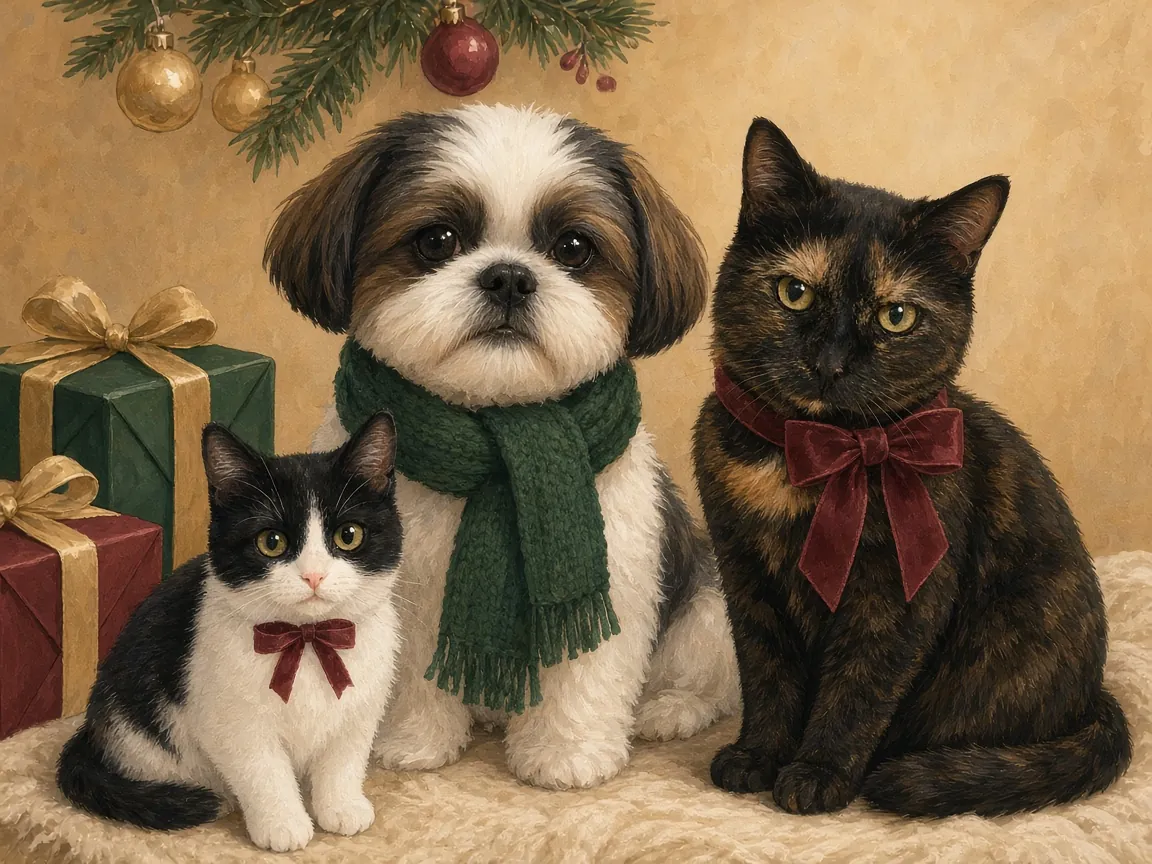
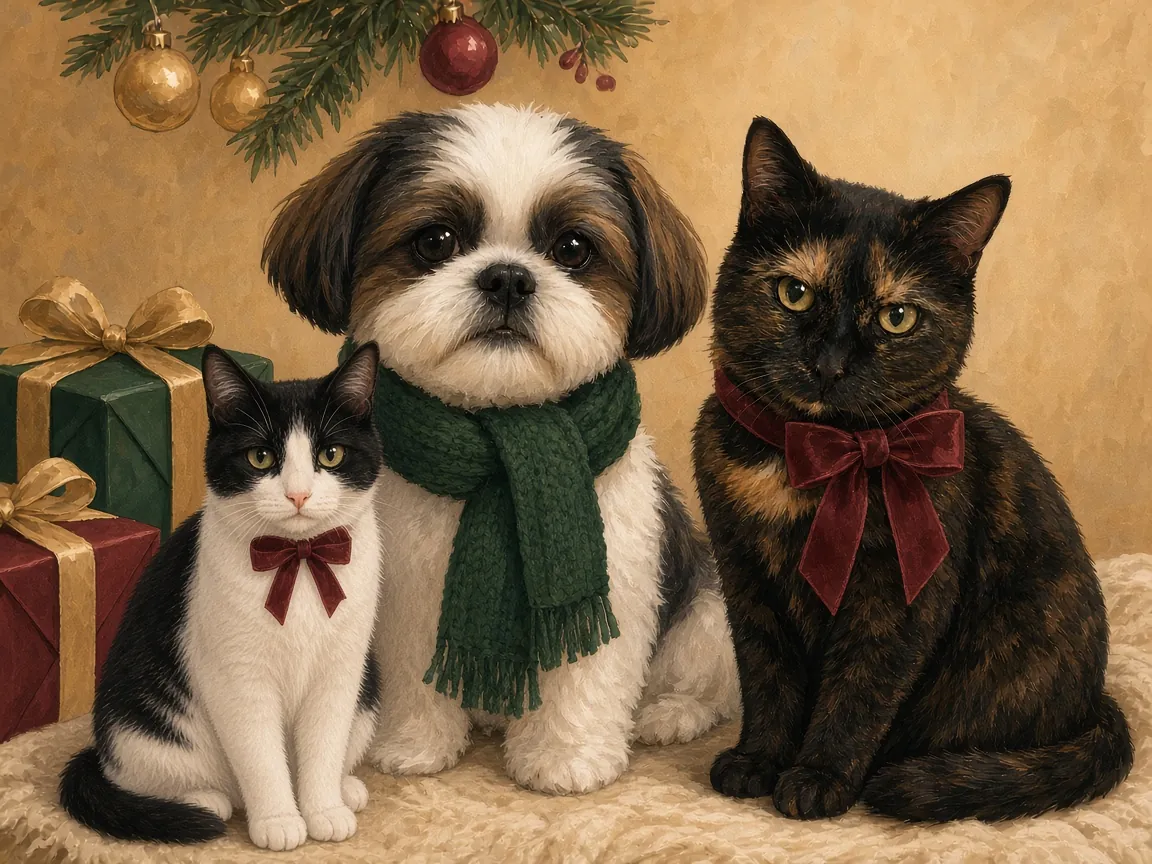
Gifts for pets: adult Lilou in hero portrait; new Premium treats scene (Future devours the treats, Lili & Lilou disapprove); new g-intro text; image cache v=20261126b; new OG

diff --git a/site/products/gifts/index.html b/site/products/gifts/index.html
@@ -218,7 +218,7 @@ if(document.readyState==='loading')document.addEventListener('DOMContentLoaded',
 <g class="d-garland"><path fill="none" stroke="#1a332c" stroke-width="7.2" stroke-linecap="round" d="M-8 3 Q60.0 29.0 128 3 M128 3 Q195.0 29.0 262 3 M262 3 Q314.0 29.0 366 3"/><path fill="none" stroke="#24443a" stroke-width="1.3" stroke-linecap="round" d="M-8.0 3.0 l6.8 -4.3 M-8.0 3.0 l-0.6 6.1 M-4.3 4.4 l3.5 -5.9 M-4.3 4.4 l3.0 5.3 M3.0 6.9 l6.3 -5.4 M3.0 6.9 l-0.5 5.8 M6.7 8.0 l6.7 -2.4 M10.4 9.1 l4.6 -3.6 M10.4 9.1 l4.2 7.0 M17.7 11.0 l3.9 -4.8 M21.4 11.8 l4.2 -3.2 M21.4 11.8 l1.8 8.5 M39.8 14.9 l2.8 4.6 M43.5 15.2 l2.5 -5.4 M47.1 15.5 l3.3 -5.8 M58.2 16.0 l5.4 -3.5 M61.8 16.0 l2.5 5.3 M72.9 15.5 l3.3 -6.2 M76.5 15.2 l3.8 -6.8 M83.9 14.4 l1.8 -7.7 M83.9 14.4 l5.3 4.4 M87.6 13.9 l4.1 -3.8 M91.2 13.3 l3.8 -6.3 M109.6 9.1 l5.4 6.8 M117.0 6.9 l1.3 -6.8 M117.0 6.9 l3.4 5.1 M124.3 4.4 l4.6 5.4 M128.0 3.0 l0.6 5.6 M131.6 4.4 l-0.9 6.9 M138.9 6.9 l4.6 -4.3 M142.5 8.0 l5.3 -4.8 M142.5 8.0 l5.1 6.4 M146.1 9.1 l4.0 -6.7 M146.1 9.1 l-0.3 5.4 M149.7 10.1 l7.6 -4.1 M149.7 10.1 l-0.2 6.8 M153.4 11.0 l3.8 -4.3 M153.4 11.0 l4.7 4.5 M167.8 13.9 l2.8 4.9 M171.5 14.4 l3.2 -6.9 M175.1 14.9 l3.0 -5.6 M185.9 15.8 l3.4 6.4 M189.6 15.9 l2.5 -4.7 M193.2 16.0 l3.8 4.5 M196.8 16.0 l4.9 3.8 M200.4 15.9 l2.6 -4.6 M200.4 15.9 l3.5 5.3 M204.1 15.8 l3.5 -6.0 M204.1 15.8 l4.4 4.5 M207.7 15.5 l1.3 -5.8 M211.3 15.2 l1.6 -6.3 M211.3 15.2 l2.5 5.2 M222.2 13.9 l4.6 -6.1 M225.8 13.3 l4.1 -7.2 M225.8 13.3 l5.4 3.9 M229.4 12.6 l2.8 -4.8 M229.4 12.6 l3.2 5.1 M236.6 11.0 l3.8 -7.9 M240.3 10.1 l0.4 -5.7 M240.3 10.1 l5.6 5.8 M243.9 9.1 l2.6 -5.5 M243.9 9.1 l4.1 7.3 M247.5 8.0 l2.0 -7.7 M247.5 8.0 l4.5 6.6 M251.1 6.9 l3.4 -6.7 M254.8 5.7 l0.9 -6.2 M254.8 5.7 l5.1 3.5 M258.4 4.4 l1.8 -5.0 M262.0 3.0 l6.3 1.6 M262.0 3.0 l4.6 -3.0 M265.7 4.8 l4.0 -4.9 M265.7 4.8 l1.5 6.6 M269.4 6.4 l6.9 -2.5 M269.4 6.4 l1.7 7.5 M273.1 8.0 l1.2 6.8 M276.9 9.4 l-0.2 6.5 M280.6 10.6 l6.2 -5.8 M280.6 10.6 l1.5 5.5 M284.3 11.8 l3.5 -4.6 M288.0 12.8 l5.3 -4.8 M288.0 12.8 l1.3 5.1 M295.4 14.3 l5.9 -4.3 M295.4 14.3 l1.6 6.3 M299.1 14.9 l3.8 -5.0 M302.9 15.4 l5.3 -3.2 M306.6 15.7 l4.2 -7.0 M310.3 15.9 l2.5 -6.1 M310.3 15.9 l4.0 6.8 M314.0 16.0 l2.7 -6.0 M317.7 15.9 l5.4 6.7 M321.4 15.7 l3.3 -5.0 M325.1 15.4 l3.4 -6.2 M328.9 14.9 l2.1 -5.2 M332.6 14.3 l0.5 -6.9 M332.6 14.3 l4.8 5.8 M336.3 13.6 l1.8 -7.9 M340.0 12.8 l4.2 6.9 M343.7 11.8 l6.3 4.4 M347.4 10.6 l4.1 -5.5 M347.4 10.6 l5.7 3.2 M351.1 9.4 l4.0 -7.6 M351.1 9.4 l5.1 5.8 M354.9 8.0 l2.7 -5.9 M358.6 6.4 l1.3 -5.4 M362.3 4.8 l2.2 -5.6 M366.0 3.0 l-0.7 -6.5 M366.0 3.0 l7.9 1.7"/><path fill="none" stroke="#3a5e51" stroke-width="1.3" stroke-linecap="round" d="M-0.6 5.7 l6.1 -5.7 M-0.6 5.7 l1.7 5.4 M6.7 8.0 l1.4 5.7 M14.1 10.1 l1.1 6.2 M17.7 11.0 l1.2 6.5 M25.1 12.6 l1.2 6.0 M36.1 14.4 l1.9 5.0 M43.5 15.2 l1.6 5.4 M47.1 15.5 l2.4 7.9 M50.8 15.8 l3.7 4.4 M54.5 15.9 l2.6 -5.2 M69.2 15.8 l5.1 -6.0 M69.2 15.8 l4.4 7.1 M76.5 15.2 l2.8 6.5 M80.2 14.9 l4.2 3.9 M102.3 11.0 l1.4 -6.4 M105.9 10.1 l3.9 4.2 M109.6 9.1 l3.9 -5.8 M113.3 8.0 l1.1 -8.7 M120.6 5.7 l4.7 2.5 M131.6 4.4 l6.6 -1.5 M157.0 11.8 l4.6 -3.2 M171.5 14.4 l1.7 6.6 M175.1 14.9 l4.1 7.2 M178.7 15.2 l2.5 -5.1 M193.2 16.0 l6.4 -5.4 M196.8 16.0 l7.0 -4.5 M214.9 14.9 l2.6 -4.7 M214.9 14.9 l4.4 5.2 M218.5 14.4 l2.3 5.6 M222.2 13.9 l3.1 4.4 M233.0 11.8 l2.2 -6.3 M251.1 6.9 l3.9 4.8 M262.0 3.0 l0.2 -6.0 M262.0 3.0 l1.9 7.7 M273.1 8.0 l3.3 -6.5 M291.7 13.6 l2.6 6.7 M299.1 14.9 l4.0 6.2 M321.4 15.7 l4.0 6.3 M340.0 12.8 l3.1 -4.6 M354.9 8.0 l4.5 4.4 M358.6 6.4 l7.7 3.0 M362.3 4.8 l6.0 3.9"/><path fill="none" stroke="#1a332c" stroke-width="1.3" stroke-linecap="round" d="M14.1 10.1 l4.3 -3.4 M25.1 12.6 l6.5 -5.6 M28.8 13.3 l7.2 -3.6 M28.8 13.3 l2.4 5.0 M32.4 13.9 l3.6 -4.5 M32.4 13.9 l1.2 6.2 M36.1 14.4 l6.2 -4.1 M39.8 14.9 l5.7 -3.0 M50.8 15.8 l3.0 -5.6 M54.5 15.9 l3.5 6.0 M58.2 16.0 l3.8 6.7 M61.8 16.0 l2.4 -8.4 M65.5 15.9 l4.2 -4.8 M65.5 15.9 l3.5 6.6 M72.9 15.5 l6.5 5.1 M80.2 14.9 l4.8 -6.8 M87.6 13.9 l4.5 5.0 M91.2 13.3 l4.2 4.9 M94.9 12.6 l2.9 -7.1 M94.9 12.6 l3.1 5.5 M98.6 11.8 l2.0 -7.0 M98.6 11.8 l5.1 6.3 M102.3 11.0 l2.5 7.0 M105.9 10.1 l1.6 -6.4 M113.3 8.0 l8.2 2.6 M120.6 5.7 l1.4 -5.0 M124.3 4.4 l1.8 -8.6 M128.0 3.0 l1.9 -5.9 M128.0 3.0 l3.7 3.8 M128.0 3.0 l4.1 -3.4 M135.2 5.7 l5.1 -6.1 M135.2 5.7 l-0.1 6.8 M138.9 6.9 l1.9 6.7 M157.0 11.8 l2.3 6.3 M160.6 12.6 l4.1 -5.0 M160.6 12.6 l2.2 5.9 M164.2 13.3 l4.0 -6.2 M164.2 13.3 l5.8 5.8 M167.8 13.9 l3.2 -5.1 M178.7 15.2 l3.6 6.5 M182.3 15.5 l3.2 -7.9 M182.3 15.5 l3.2 7.1 M185.9 15.8 l4.5 -5.1 M189.6 15.9 l5.8 6.4 M207.7 15.5 l3.9 6.3 M218.5 14.4 l1.4 -5.2 M233.0 11.8 l4.4 2.9 M236.6 11.0 l6.9 4.1 M258.4 4.4 l6.4 1.2 M276.9 9.4 l5.7 -4.4 M284.3 11.8 l2.4 8.2 M291.7 13.6 l2.9 -7.1 M302.9 15.4 l4.3 6.3 M306.6 15.7 l3.8 4.2 M314.0 16.0 l1.6 7.5 M317.7 15.9 l3.0 -5.5 M325.1 15.4 l5.9 4.5 M328.9 14.9 l4.2 3.6 M336.3 13.6 l4.7 3.1 M343.7 11.8 l3.1 -5.0"/><g><g class="d-tw"><circle cx="57.7" cy="20.4" r="11.2" fill="url(#d-glow)"/><circle cx="57.7" cy="20.4" r="2.8" fill="#fbe7b0" stroke="#a8823a" stroke-width=".6"/></g><g class="d-tw"><circle cx="196.4" cy="20.4" r="11.2" fill="url(#d-glow)"/><circle cx="196.4" cy="20.4" r="2.8" fill="#fbe7b0" stroke="#a8823a" stroke-width=".6"/></g><g class="d-tw"><circle cx="318.0" cy="20.3" r="11.2" fill="url(#d-glow)"/><circle cx="318.0" cy="20.3" r="2.8" fill="#fbe7b0" stroke="#a8823a" stroke-width=".6"/></g></g><use href="#d-holly" x="-31.4" y="-8.6" width="46.8" height="31.2"/><use href="#d-holly" x="104.6" y="-8.6" width="46.8" height="31.2"/><use href="#d-holly" x="238.6" y="-8.6" width="46.8" height="31.2"/><use href="#d-holly" x="342.6" y="-8.6" width="46.8" height="31.2"/></g>
 </svg>
 <div class="g-hero-visual">
-<figure class="g-portrait"><img src="../../img/gifts/gifts-hero-trio-960.webp" srcset="../../img/gifts/gifts-hero-trio-640.webp 640w, ../../img/gifts/gifts-hero-trio-960.webp 960w, ../../img/gifts/gifts-hero-trio-1152.webp 1152w" sizes="(max-width:720px) 92vw, 500px" width="960" height="720" alt="Painted Christmas portrait of Marc&rsquo;s pets: Future the shih tzu in a green scarf, Lili the tortoiseshell cat with a cranberry bow, and little Lilou the black-and-white cat, beside wrapped gifts." fetchpriority="high" decoding="async"></figure>
+<figure class="g-portrait"><img src="../../img/gifts/gifts-hero-trio-960.webp?v=20261126b" srcset="../../img/gifts/gifts-hero-trio-640.webp?v=20261126b 640w, ../../img/gifts/gifts-hero-trio-960.webp?v=20261126b 960w, ../../img/gifts/gifts-hero-trio-1152.webp?v=20261126b 1152w" sizes="(max-width:720px) 92vw, 500px" width="960" height="720" alt="Painted Christmas portrait of Marc&rsquo;s pets: Future the shih tzu in a green scarf, Lili the tortoiseshell cat with a cranberry bow, and little Lilou the black-and-white cat, beside wrapped gifts." fetchpriority="high" decoding="async"></figure>
 <svg class="g-deco g-deco-l" viewBox="0 0 40 220" aria-hidden="true"><g class="d-bob"><path fill="none" stroke="#d9b765" stroke-width=".9" d="M20 0 V135.38"/>
 <rect fill="#d9b765" stroke="#a8823a" stroke-width=".8" x="16.7" y="134.4" width="6.6" height="4.6" rx="1"/>
 <circle fill="url(#d-b-gold)" stroke="#0b1719" stroke-width="1" cx="20" cy="150" r="11"/>
@@ -242,7 +242,7 @@ if(document.readyState==='loading')document.addEventListener('DOMContentLoaded',
 <p class="g-eyebrow">Christmas shelf &middot; 2026</p>
 <h1 id="g-title">Gifts for pets</h1>
 <p class="g-sub">A small Christmas shelf for the journey, and for home.</p>
-<p class="g-intro">A small Christmas shelf for dogs and cats who already have enough squeaky mediocrity. Sixteen things we would actually wrap, grouped by need, each with a short, honest card and a practical tip.</p>
+<p class="g-intro">For dogs and cats who already own enough squeaky mediocrity: sixteen things we would actually wrap (and probably test first), grouped by need, each with a short, honest card and a practical tip.</p>
 </div>
 </section>
 <p class="g-disc g-disc-top"><strong>As an Amazon Associate I earn from qualifying purchases.</strong> Links on this page are affiliate links.</p>
@@ -448,7 +448,7 @@ if(document.readyState==='loading')document.addEventListener('DOMContentLoaded',
 <circle fill="url(#d-b-gold)" stroke="#0b1719" stroke-width="1" cx="30" cy="84" r="11"/>
 <path fill="none" stroke="#f5ecd6" stroke-width="1.0" opacity=".85" d="M19.4 85.3 Q30 88.6 40.6 85.3"/>
 <ellipse fill="#fff" opacity=".45" cx="25.8" cy="79.8" rx="2.2" ry="1.4" transform="rotate(-35 25.8 79.8)"/></g></svg>
-<figure class="g-band-pic"><img src="../../img/gifts/gifts-band-treats-720.webp" srcset="../../img/gifts/gifts-band-treats-400.webp 400w, ../../img/gifts/gifts-band-treats-720.webp 720w" sizes="(max-width:720px) 90vw, 330px" width="720" height="405" alt="Future the shih tzu stares at a treat pouch, drooling, while Lilou reaches for the jar and Lili watches." loading="lazy" decoding="async"></figure>
+<figure class="g-band-pic"><img src="../../img/gifts/gifts-band-treats-720.webp?v=20261126b" srcset="../../img/gifts/gifts-band-treats-400.webp?v=20261126b 400w, ../../img/gifts/gifts-band-treats-720.webp?v=20261126b 720w" sizes="(max-width:720px) 90vw, 330px" width="720" height="405" alt="Future the shih tzu greedily devours a spilled pouch and jar of treats while Lili the tortoiseshell cat and Lilou the black-and-white cat stare down at him, unimpressed." loading="lazy" decoding="async"></figure>
 </div>
 <p class="g-blurb">Short, honest ingredient lists for dogs and cats. A treat is a treat, not a meal.</p>
 <div class="g-grid">

diff --git a/static/products/gifts/index.html b/static/products/gifts/index.html
@@ -218,7 +218,7 @@ if(document.readyState==='loading')document.addEventListener('DOMContentLoaded',
 <g class="d-garland"><path fill="none" stroke="#1a332c" stroke-width="7.2" stroke-linecap="round" d="M-8 3 Q60.0 29.0 128 3 M128 3 Q195.0 29.0 262 3 M262 3 Q314.0 29.0 366 3"/><path fill="none" stroke="#24443a" stroke-width="1.3" stroke-linecap="round" d="M-8.0 3.0 l6.8 -4.3 M-8.0 3.0 l-0.6 6.1 M-4.3 4.4 l3.5 -5.9 M-4.3 4.4 l3.0 5.3 M3.0 6.9 l6.3 -5.4 M3.0 6.9 l-0.5 5.8 M6.7 8.0 l6.7 -2.4 M10.4 9.1 l4.6 -3.6 M10.4 9.1 l4.2 7.0 M17.7 11.0 l3.9 -4.8 M21.4 11.8 l4.2 -3.2 M21.4 11.8 l1.8 8.5 M39.8 14.9 l2.8 4.6 M43.5 15.2 l2.5 -5.4 M47.1 15.5 l3.3 -5.8 M58.2 16.0 l5.4 -3.5 M61.8 16.0 l2.5 5.3 M72.9 15.5 l3.3 -6.2 M76.5 15.2 l3.8 -6.8 M83.9 14.4 l1.8 -7.7 M83.9 14.4 l5.3 4.4 M87.6 13.9 l4.1 -3.8 M91.2 13.3 l3.8 -6.3 M109.6 9.1 l5.4 6.8 M117.0 6.9 l1.3 -6.8 M117.0 6.9 l3.4 5.1 M124.3 4.4 l4.6 5.4 M128.0 3.0 l0.6 5.6 M131.6 4.4 l-0.9 6.9 M138.9 6.9 l4.6 -4.3 M142.5 8.0 l5.3 -4.8 M142.5 8.0 l5.1 6.4 M146.1 9.1 l4.0 -6.7 M146.1 9.1 l-0.3 5.4 M149.7 10.1 l7.6 -4.1 M149.7 10.1 l-0.2 6.8 M153.4 11.0 l3.8 -4.3 M153.4 11.0 l4.7 4.5 M167.8 13.9 l2.8 4.9 M171.5 14.4 l3.2 -6.9 M175.1 14.9 l3.0 -5.6 M185.9 15.8 l3.4 6.4 M189.6 15.9 l2.5 -4.7 M193.2 16.0 l3.8 4.5 M196.8 16.0 l4.9 3.8 M200.4 15.9 l2.6 -4.6 M200.4 15.9 l3.5 5.3 M204.1 15.8 l3.5 -6.0 M204.1 15.8 l4.4 4.5 M207.7 15.5 l1.3 -5.8 M211.3 15.2 l1.6 -6.3 M211.3 15.2 l2.5 5.2 M222.2 13.9 l4.6 -6.1 M225.8 13.3 l4.1 -7.2 M225.8 13.3 l5.4 3.9 M229.4 12.6 l2.8 -4.8 M229.4 12.6 l3.2 5.1 M236.6 11.0 l3.8 -7.9 M240.3 10.1 l0.4 -5.7 M240.3 10.1 l5.6 5.8 M243.9 9.1 l2.6 -5.5 M243.9 9.1 l4.1 7.3 M247.5 8.0 l2.0 -7.7 M247.5 8.0 l4.5 6.6 M251.1 6.9 l3.4 -6.7 M254.8 5.7 l0.9 -6.2 M254.8 5.7 l5.1 3.5 M258.4 4.4 l1.8 -5.0 M262.0 3.0 l6.3 1.6 M262.0 3.0 l4.6 -3.0 M265.7 4.8 l4.0 -4.9 M265.7 4.8 l1.5 6.6 M269.4 6.4 l6.9 -2.5 M269.4 6.4 l1.7 7.5 M273.1 8.0 l1.2 6.8 M276.9 9.4 l-0.2 6.5 M280.6 10.6 l6.2 -5.8 M280.6 10.6 l1.5 5.5 M284.3 11.8 l3.5 -4.6 M288.0 12.8 l5.3 -4.8 M288.0 12.8 l1.3 5.1 M295.4 14.3 l5.9 -4.3 M295.4 14.3 l1.6 6.3 M299.1 14.9 l3.8 -5.0 M302.9 15.4 l5.3 -3.2 M306.6 15.7 l4.2 -7.0 M310.3 15.9 l2.5 -6.1 M310.3 15.9 l4.0 6.8 M314.0 16.0 l2.7 -6.0 M317.7 15.9 l5.4 6.7 M321.4 15.7 l3.3 -5.0 M325.1 15.4 l3.4 -6.2 M328.9 14.9 l2.1 -5.2 M332.6 14.3 l0.5 -6.9 M332.6 14.3 l4.8 5.8 M336.3 13.6 l1.8 -7.9 M340.0 12.8 l4.2 6.9 M343.7 11.8 l6.3 4.4 M347.4 10.6 l4.1 -5.5 M347.4 10.6 l5.7 3.2 M351.1 9.4 l4.0 -7.6 M351.1 9.4 l5.1 5.8 M354.9 8.0 l2.7 -5.9 M358.6 6.4 l1.3 -5.4 M362.3 4.8 l2.2 -5.6 M366.0 3.0 l-0.7 -6.5 M366.0 3.0 l7.9 1.7"/><path fill="none" stroke="#3a5e51" stroke-width="1.3" stroke-linecap="round" d="M-0.6 5.7 l6.1 -5.7 M-0.6 5.7 l1.7 5.4 M6.7 8.0 l1.4 5.7 M14.1 10.1 l1.1 6.2 M17.7 11.0 l1.2 6.5 M25.1 12.6 l1.2 6.0 M36.1 14.4 l1.9 5.0 M43.5 15.2 l1.6 5.4 M47.1 15.5 l2.4 7.9 M50.8 15.8 l3.7 4.4 M54.5 15.9 l2.6 -5.2 M69.2 15.8 l5.1 -6.0 M69.2 15.8 l4.4 7.1 M76.5 15.2 l2.8 6.5 M80.2 14.9 l4.2 3.9 M102.3 11.0 l1.4 -6.4 M105.9 10.1 l3.9 4.2 M109.6 9.1 l3.9 -5.8 M113.3 8.0 l1.1 -8.7 M120.6 5.7 l4.7 2.5 M131.6 4.4 l6.6 -1.5 M157.0 11.8 l4.6 -3.2 M171.5 14.4 l1.7 6.6 M175.1 14.9 l4.1 7.2 M178.7 15.2 l2.5 -5.1 M193.2 16.0 l6.4 -5.4 M196.8 16.0 l7.0 -4.5 M214.9 14.9 l2.6 -4.7 M214.9 14.9 l4.4 5.2 M218.5 14.4 l2.3 5.6 M222.2 13.9 l3.1 4.4 M233.0 11.8 l2.2 -6.3 M251.1 6.9 l3.9 4.8 M262.0 3.0 l0.2 -6.0 M262.0 3.0 l1.9 7.7 M273.1 8.0 l3.3 -6.5 M291.7 13.6 l2.6 6.7 M299.1 14.9 l4.0 6.2 M321.4 15.7 l4.0 6.3 M340.0 12.8 l3.1 -4.6 M354.9 8.0 l4.5 4.4 M358.6 6.4 l7.7 3.0 M362.3 4.8 l6.0 3.9"/><path fill="none" stroke="#1a332c" stroke-width="1.3" stroke-linecap="round" d="M14.1 10.1 l4.3 -3.4 M25.1 12.6 l6.5 -5.6 M28.8 13.3 l7.2 -3.6 M28.8 13.3 l2.4 5.0 M32.4 13.9 l3.6 -4.5 M32.4 13.9 l1.2 6.2 M36.1 14.4 l6.2 -4.1 M39.8 14.9 l5.7 -3.0 M50.8 15.8 l3.0 -5.6 M54.5 15.9 l3.5 6.0 M58.2 16.0 l3.8 6.7 M61.8 16.0 l2.4 -8.4 M65.5 15.9 l4.2 -4.8 M65.5 15.9 l3.5 6.6 M72.9 15.5 l6.5 5.1 M80.2 14.9 l4.8 -6.8 M87.6 13.9 l4.5 5.0 M91.2 13.3 l4.2 4.9 M94.9 12.6 l2.9 -7.1 M94.9 12.6 l3.1 5.5 M98.6 11.8 l2.0 -7.0 M98.6 11.8 l5.1 6.3 M102.3 11.0 l2.5 7.0 M105.9 10.1 l1.6 -6.4 M113.3 8.0 l8.2 2.6 M120.6 5.7 l1.4 -5.0 M124.3 4.4 l1.8 -8.6 M128.0 3.0 l1.9 -5.9 M128.0 3.0 l3.7 3.8 M128.0 3.0 l4.1 -3.4 M135.2 5.7 l5.1 -6.1 M135.2 5.7 l-0.1 6.8 M138.9 6.9 l1.9 6.7 M157.0 11.8 l2.3 6.3 M160.6 12.6 l4.1 -5.0 M160.6 12.6 l2.2 5.9 M164.2 13.3 l4.0 -6.2 M164.2 13.3 l5.8 5.8 M167.8 13.9 l3.2 -5.1 M178.7 15.2 l3.6 6.5 M182.3 15.5 l3.2 -7.9 M182.3 15.5 l3.2 7.1 M185.9 15.8 l4.5 -5.1 M189.6 15.9 l5.8 6.4 M207.7 15.5 l3.9 6.3 M218.5 14.4 l1.4 -5.2 M233.0 11.8 l4.4 2.9 M236.6 11.0 l6.9 4.1 M258.4 4.4 l6.4 1.2 M276.9 9.4 l5.7 -4.4 M284.3 11.8 l2.4 8.2 M291.7 13.6 l2.9 -7.1 M302.9 15.4 l4.3 6.3 M306.6 15.7 l3.8 4.2 M314.0 16.0 l1.6 7.5 M317.7 15.9 l3.0 -5.5 M325.1 15.4 l5.9 4.5 M328.9 14.9 l4.2 3.6 M336.3 13.6 l4.7 3.1 M343.7 11.8 l3.1 -5.0"/><g><g class="d-tw"><circle cx="57.7" cy="20.4" r="11.2" fill="url(#d-glow)"/><circle cx="57.7" cy="20.4" r="2.8" fill="#fbe7b0" stroke="#a8823a" stroke-width=".6"/></g><g class="d-tw"><circle cx="196.4" cy="20.4" r="11.2" fill="url(#d-glow)"/><circle cx="196.4" cy="20.4" r="2.8" fill="#fbe7b0" stroke="#a8823a" stroke-width=".6"/></g><g class="d-tw"><circle cx="318.0" cy="20.3" r="11.2" fill="url(#d-glow)"/><circle cx="318.0" cy="20.3" r="2.8" fill="#fbe7b0" stroke="#a8823a" stroke-width=".6"/></g></g><use href="#d-holly" x="-31.4" y="-8.6" width="46.8" height="31.2"/><use href="#d-holly" x="104.6" y="-8.6" width="46.8" height="31.2"/><use href="#d-holly" x="238.6" y="-8.6" width="46.8" height="31.2"/><use href="#d-holly" x="342.6" y="-8.6" width="46.8" height="31.2"/></g>
 </svg>
 <div class="g-hero-visual">
-<figure class="g-portrait"><img src="../../img/gifts/gifts-hero-trio-960.webp" srcset="../../img/gifts/gifts-hero-trio-640.webp 640w, ../../img/gifts/gifts-hero-trio-960.webp 960w, ../../img/gifts/gifts-hero-trio-1152.webp 1152w" sizes="(max-width:720px) 92vw, 500px" width="960" height="720" alt="Painted Christmas portrait of Marc&rsquo;s pets: Future the shih tzu in a green scarf, Lili the tortoiseshell cat with a cranberry bow, and little Lilou the black-and-white cat, beside wrapped gifts." fetchpriority="high" decoding="async"></figure>
+<figure class="g-portrait"><img src="../../img/gifts/gifts-hero-trio-960.webp?v=20261126b" srcset="../../img/gifts/gifts-hero-trio-640.webp?v=20261126b 640w, ../../img/gifts/gifts-hero-trio-960.webp?v=20261126b 960w, ../../img/gifts/gifts-hero-trio-1152.webp?v=20261126b 1152w" sizes="(max-width:720px) 92vw, 500px" width="960" height="720" alt="Painted Christmas portrait of Marc&rsquo;s pets: Future the shih tzu in a green scarf, Lili the tortoiseshell cat with a cranberry bow, and little Lilou the black-and-white cat, beside wrapped gifts." fetchpriority="high" decoding="async"></figure>
 <svg class="g-deco g-deco-l" viewBox="0 0 40 220" aria-hidden="true"><g class="d-bob"><path fill="none" stroke="#d9b765" stroke-width=".9" d="M20 0 V135.38"/>
 <rect fill="#d9b765" stroke="#a8823a" stroke-width=".8" x="16.7" y="134.4" width="6.6" height="4.6" rx="1"/>
 <circle fill="url(#d-b-gold)" stroke="#0b1719" stroke-width="1" cx="20" cy="150" r="11"/>
@@ -242,7 +242,7 @@ if(document.readyState==='loading')document.addEventListener('DOMContentLoaded',
 <p class="g-eyebrow">Christmas shelf &middot; 2026</p>
 <h1 id="g-title">Gifts for pets</h1>
 <p class="g-sub">A small Christmas shelf for the journey, and for home.</p>
-<p class="g-intro">A small Christmas shelf for dogs and cats who already have enough squeaky mediocrity. Sixteen things we would actually wrap, grouped by need, each with a short, honest card and a practical tip.</p>
+<p class="g-intro">For dogs and cats who already own enough squeaky mediocrity: sixteen things we would actually wrap (and probably test first), grouped by need, each with a short, honest card and a practical tip.</p>
 </div>
 </section>
 <p class="g-disc g-disc-top"><strong>As an Amazon Associate I earn from qualifying purchases.</strong> Links on this page are affiliate links.</p>
@@ -448,7 +448,7 @@ if(document.readyState==='loading')document.addEventListener('DOMContentLoaded',
 <circle fill="url(#d-b-gold)" stroke="#0b1719" stroke-width="1" cx="30" cy="84" r="11"/>
 <path fill="none" stroke="#f5ecd6" stroke-width="1.0" opacity=".85" d="M19.4 85.3 Q30 88.6 40.6 85.3"/>
 <ellipse fill="#fff" opacity=".45" cx="25.8" cy="79.8" rx="2.2" ry="1.4" transform="rotate(-35 25.8 79.8)"/></g></svg>
-<figure class="g-band-pic"><img src="../../img/gifts/gifts-band-treats-720.webp" srcset="../../img/gifts/gifts-band-treats-400.webp 400w, ../../img/gifts/gifts-band-treats-720.webp 720w" sizes="(max-width:720px) 90vw, 330px" width="720" height="405" alt="Future the shih tzu stares at a treat pouch, drooling, while Lilou reaches for the jar and Lili watches." loading="lazy" decoding="async"></figure>
+<figure class="g-band-pic"><img src="../../img/gifts/gifts-band-treats-720.webp?v=20261126b" srcset="../../img/gifts/gifts-band-treats-400.webp?v=20261126b 400w, ../../img/gifts/gifts-band-treats-720.webp?v=20261126b 720w" sizes="(max-width:720px) 90vw, 330px" width="720" height="405" alt="Future the shih tzu greedily devours a spilled pouch and jar of treats while Lili the tortoiseshell cat and Lilou the black-and-white cat stare down at him, unimpressed." loading="lazy" decoding="async"></figure>
 </div>
 <p class="g-blurb">Short, honest ingredient lists for dogs and cats. A treat is a treat, not a meal.</p>
 <div class="g-grid">
